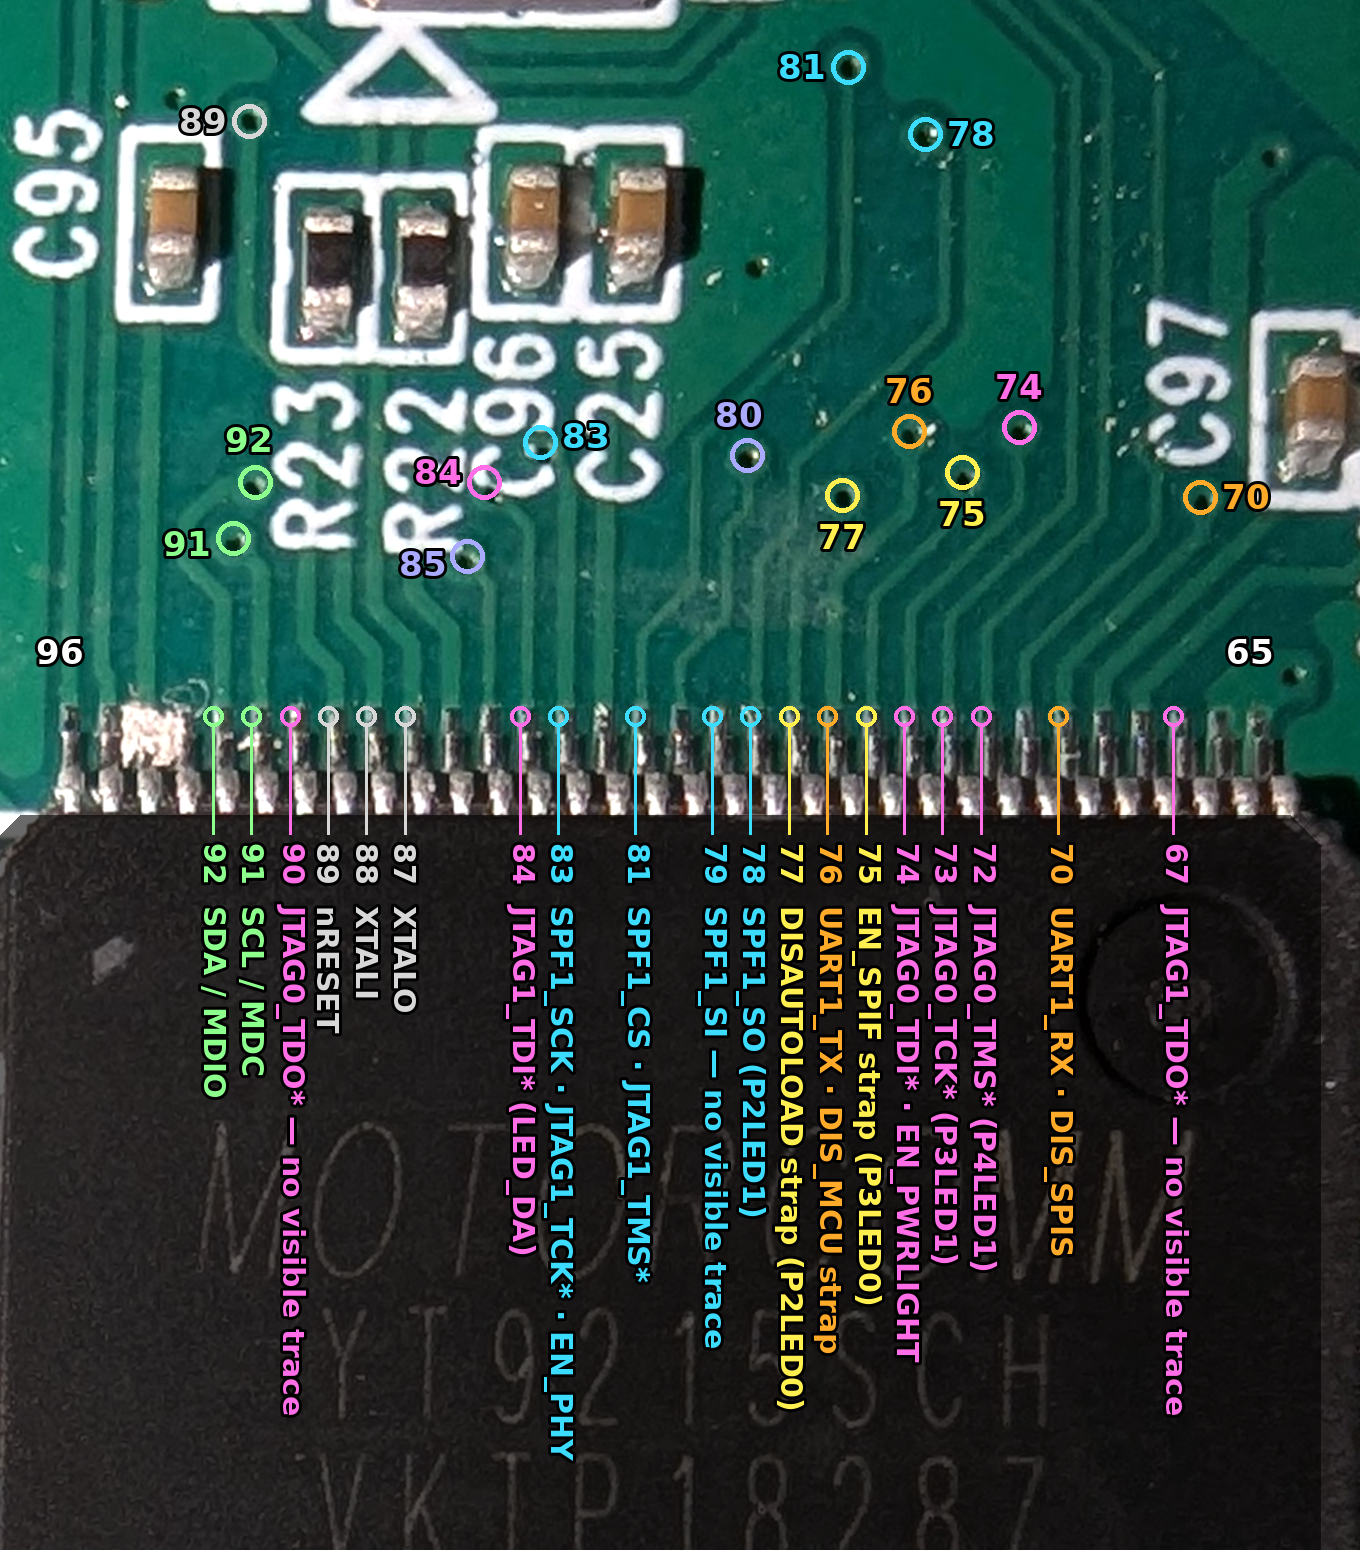
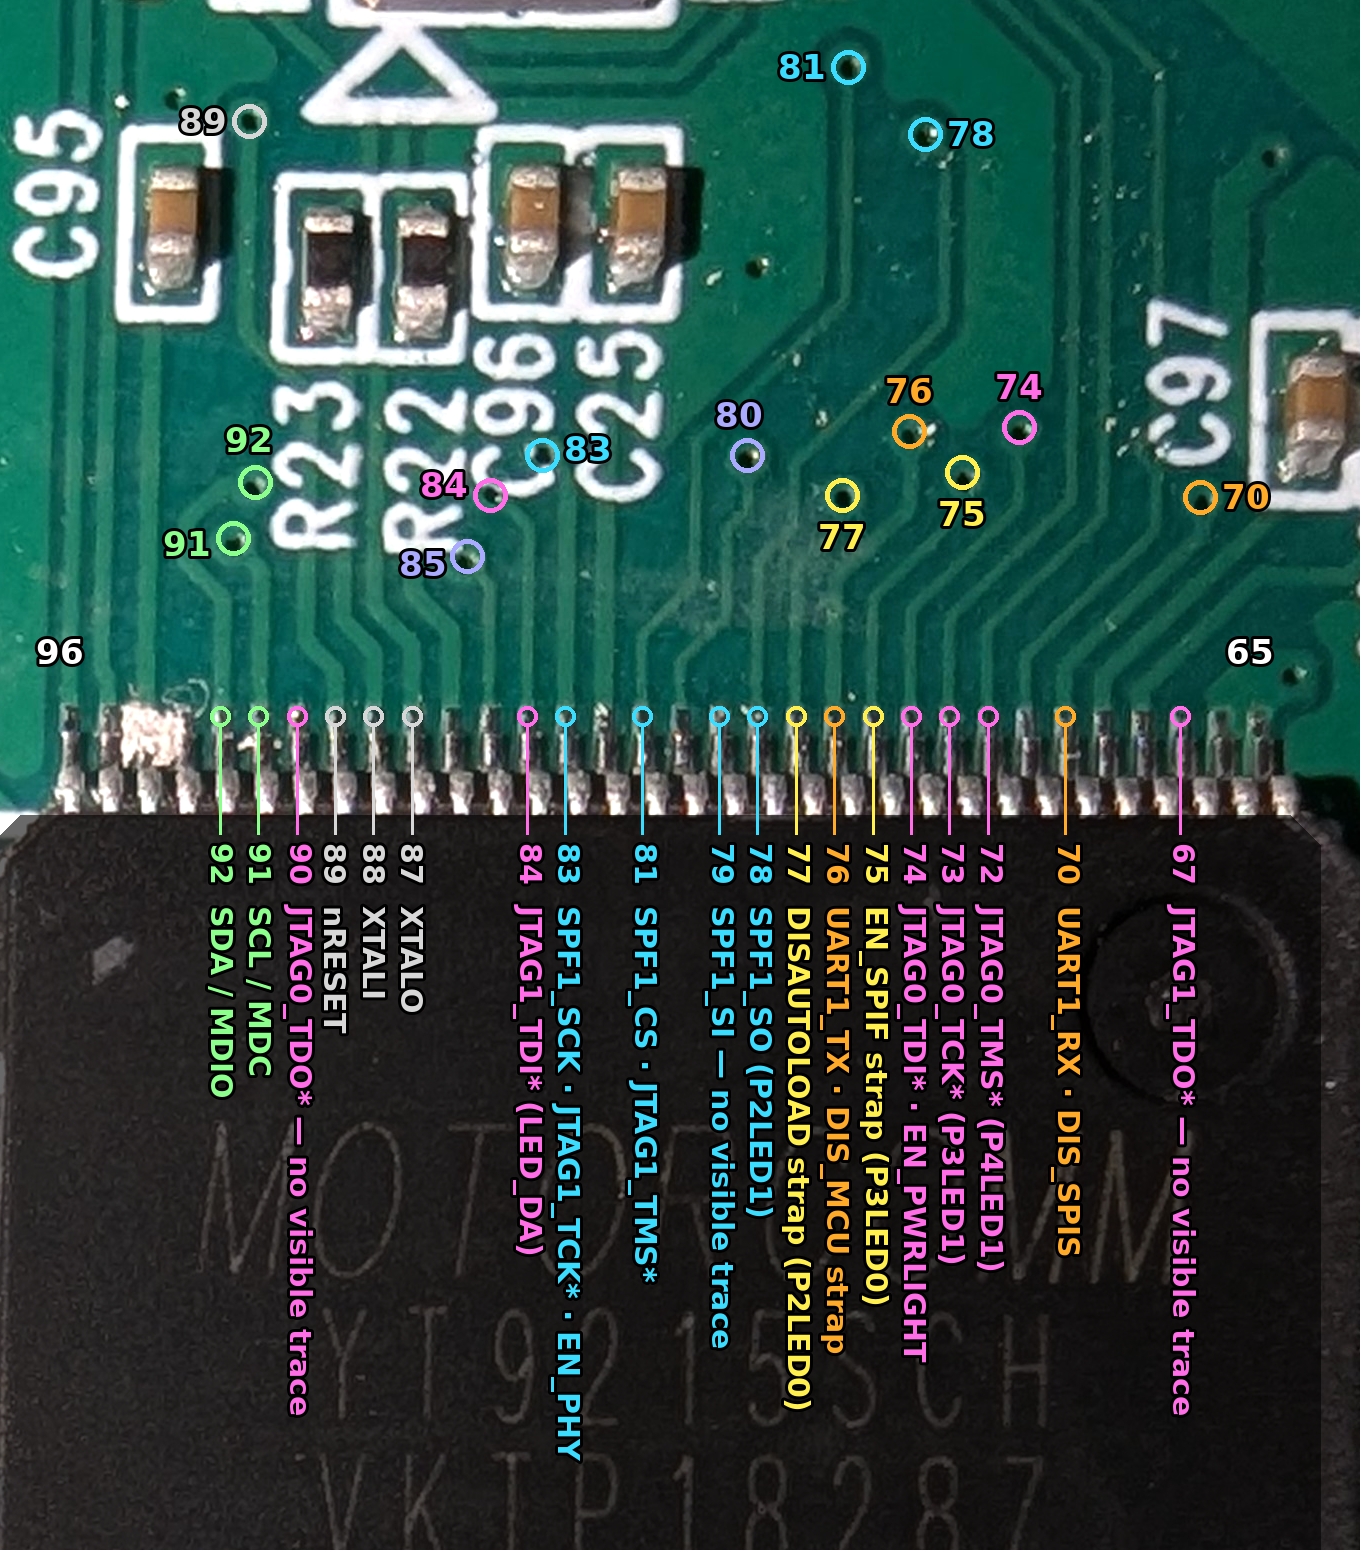
Annotated U4 images: centre the rings on vias, leads and the pin-1 dimple
Claude-Session: https://claude.ai/code/session_01T8XQLu2hHeQn1gVyGrjSAf

diff --git a/research/lx-is601f-board/annotate.py b/research/lx-is601f-board/annotate.py
@@ -29,7 +29,7 @@ def font(size, bold=True):
 
 def topx(n):
     """x of the lead of pin n on the top edge (pins 65 to 96)."""
-    return 2430 - 38.4 * (n - 65)
+    return 2437 - 38.4 * (n - 65)
 
 
 def righty(n):
@@ -80,8 +80,8 @@ src = Image.open(SP + 'photo-u4-macro.jpg').convert('RGB')
 # ---------- the whole package: pin 1 and the pin range of each side ----------
 c = Crop(src, (900, 1130, 2800, 2960), darken=90)
 big, mid = font(64), font(50)
-c.ring(1320, 2530, WHITE, r=72, width=6)
-c.text(1410, 2530, 'pin-1 dimple', mid, WHITE, 'lm', 4)
+c.ring(1345, 2557, WHITE, r=72, width=6)
+c.text(1435, 2557, 'pin-1 dimple', mid, WHITE, 'lm', 4)
 c.text((1240 + 2430) / 2, 2655, 'pins 1 to 32', big, WHITE, 'mm', 4)
 c.text(2390, (1486 + 2670) / 2, 'pins 33 to 64', big, WHITE, 'rm', 4)
 c.text((1240 + 2430) / 2, 1500, 'pins 65 to 96', big, WHITE, 'mm', 4)
@@ -123,7 +123,7 @@ c.text(2430, 1232, '65', fs, WHITE, 'mm'); c.text(1240, 1232, '96', fs, WHITE, '
 VIAS = [(80, 1927, 1035, OTHER, -8, -40), (77, 2022, 1075, STRAP, 0, 42), (76, 2089, 1011, UART, 0, -40),
         (75, 2142, 1052, STRAP, 0, 42), (74, 2199, 1007, JTAG, 0, -40), (70, 2380, 1077, UART, 46, 0),
         (78, 2105, 714, SPI, 46, 0), (81, 2028, 647, SPI, -46, 0),
-        (85, 1647, 1136, OTHER, -44, 8), (84, 1664, 1062, JTAG, -46, -10), (83, 1720, 1022, SPI, 46, -6),
+        (85, 1647, 1136, OTHER, -44, 8), (84, 1670, 1075, JTAG, -46, -10), (83, 1722, 1035, SPI, 46, -6),
         (92, 1435, 1062, I2C, -6, -42), (91, 1413, 1118, I2C, -46, 6), (89, 1429, 701, REF, -46, 0)]
 for n, x, y, col, dx, dy in VIAS:
     c.ring(x, y, col)

diff --git a/research/switch-board-strapping.md b/research/switch-board-strapping.md
@@ -338,8 +338,8 @@ transformer bodies, so the fifth is taken to be under the PoE module.
 | <a href="#lx-photo-strap-array">Strap array annotated</a> | Not known | Bottom | Strap resistor array with decoded levels |
 | <a href="#lx-photo-bottom-under-u4">Bottom under U4</a> | Not known | Bottom | Area under <a href="#lx-u4">U4</a> with the strap resistor array |
 | <a href="#lx-photo-board-a-top">Board A top</a> | A | Top | Area around <a href="#lx-u4">U4</a> |
-| <a href="#lx-photo-u4-right-edge">U4 right edge</a> | B | Top | Leads 46 to 55 of <a href="#lx-u4">U4</a> |
-| <a href="#lx-photo-u4-top-edge">U4 top edge</a> | B | Top | Leads 65 to 96 of <a href="#lx-u4">U4</a> |
+| <a href="#lx-photo-u4-right-edge">U4 right edge</a> | A | Top | Leads 46 to 55 of <a href="#lx-u4">U4</a> |
+| <a href="#lx-photo-u4-top-edge">U4 top edge</a> | A | Top | Leads 65 to 96 of <a href="#lx-u4">U4</a> |
 | <a href="#lx-photo-bottom-strap-array">Bottom strap array</a> | Not known | Bottom | Strap resistor array area |
 | <a href="#lx-photo-board-b-top">Board B top</a> | B | Top | Whole board |
 | <a href="#lx-photo-poe-module">PoE module</a> | B | Top | Plug-in PoE module |

diff --git a/research/lx-is601f-board/README.md b/research/lx-is601f-board/README.md
@@ -74,7 +74,7 @@ A ring with a number marks the via that the lead of that pin runs to.
 ## Source photos
 
 The three annotated images of [U4](../motorcomm-debug-pins.md#lx-u4) are crops of [`photo-u4-macro.jpg`](photo-u4-macro.jpg), a close-up of
-[U4](../motorcomm-debug-pins.md#lx-u4) on board A. It is [photo 13](photos/README.md#photo-13) of the catalogue, the sharpest evenly lit view of the package among the 34 photos, scaled and straightened so that the package sits square. The grey strip on its right edge is outside that photo. Boards A and B are told apart in [`photos/README.md`](photos/README.md).
+[U4](../motorcomm-debug-pins.md#lx-u4) on board A. It is [photo 13](photos/README.md#photo-13) of the catalogue, the clearest evenly lit view of the whole package among the 34 photos, scaled and straightened so that the package sits square. The grey strip on its right edge is outside that photo. Boards A and B are told apart in [`photos/README.md`](photos/README.md).
 
 ![Close-up of U4 on board A](photo-u4-macro.jpg)
 
